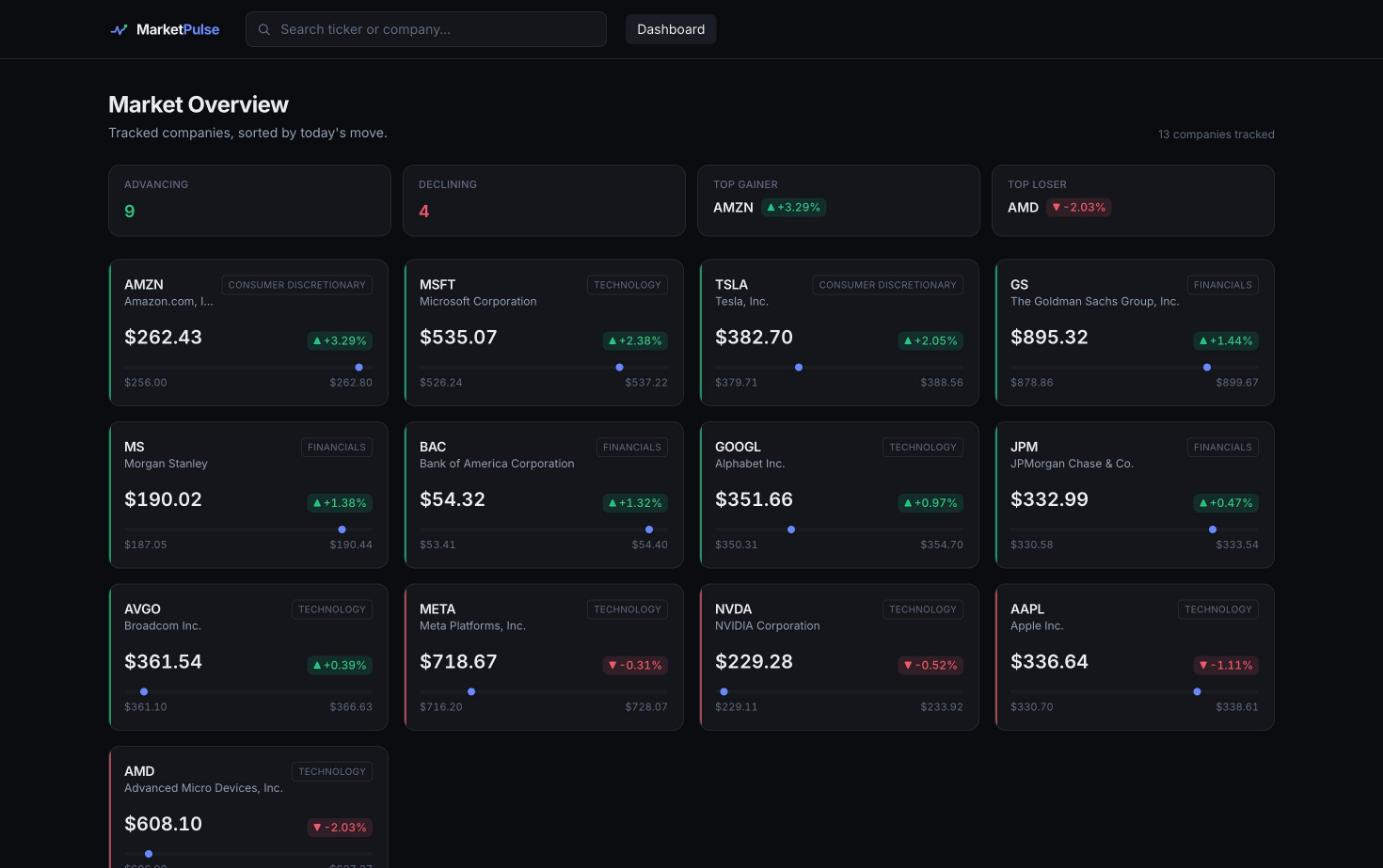
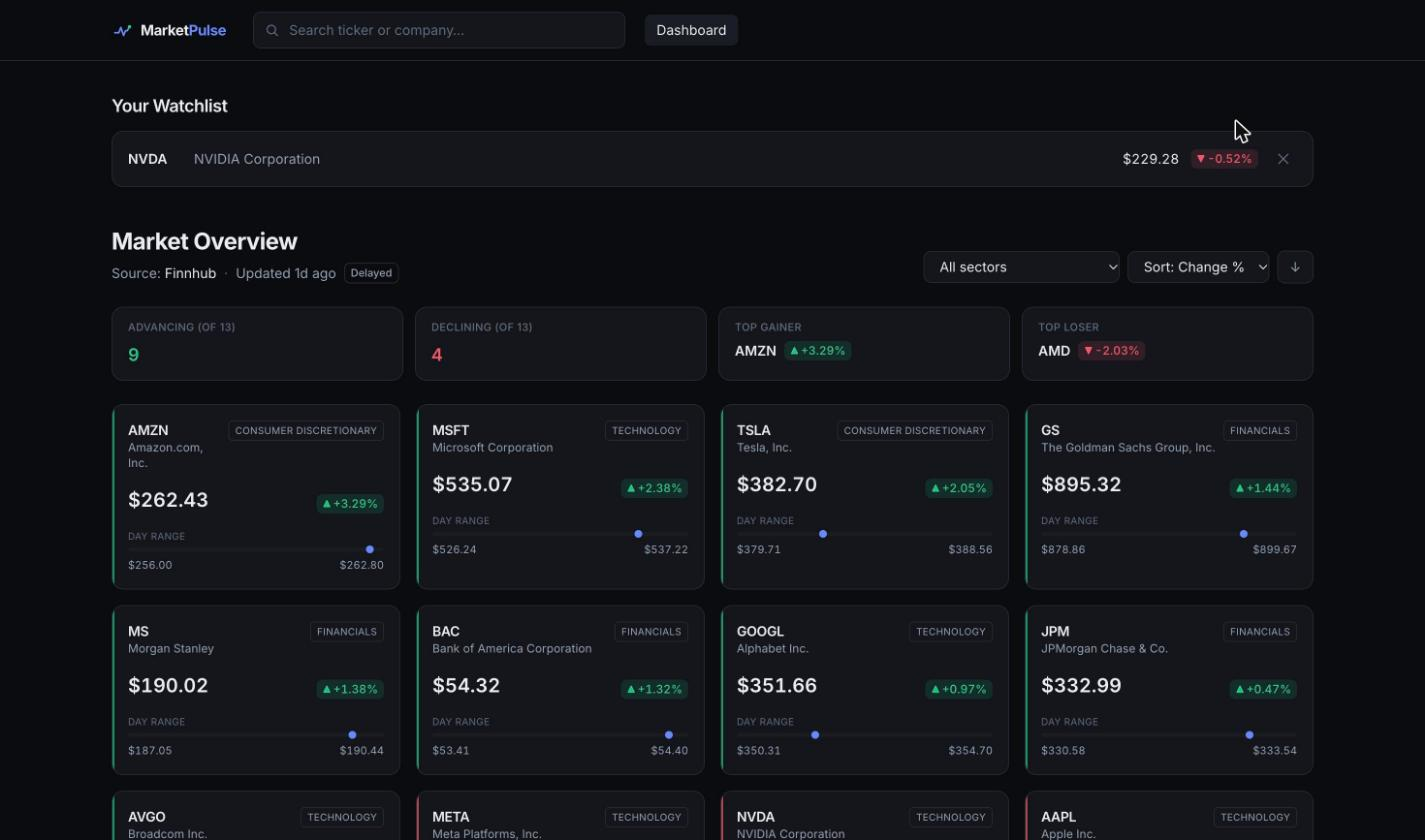
document architecture, data flow, reliability, limits and tradeoffs
Rewrite the README to reflect phases 1-5: data provenance and stale
handling, chart time ranges, the ResilientLoader reliability layer,
per-user watchlists, the full API (incl. watchlist, range param,
X-Data-Stale/X-User-Id headers), CI, real cold-vs-warm performance
numbers, a data-flow walkthrough, and an explicit limitations &
tradeoffs section. Add a CI badge and refresh the dashboard screenshot.

diff --git a/README.md b/README.md
@@ -1,9 +1,12 @@
 # MarketPulse
 
-A full-stack market research dashboard. Search any tracked company to see a live
-quote, an interactive price chart, key fundamentals, recent news, earnings
-history, and SEC filings — all assembled from external market-data APIs behind a
-clean, cached backend.
+A full-stack market research dashboard. Browse tracked companies on a live
+market overview, open any company for a quote, an interactive price chart with
+selectable time ranges, fundamentals, news, earnings and SEC filings, and keep a
+personal watchlist — all assembled from external market-data APIs behind a
+cached, resilient backend.
+
+![CI](https://github.com/adi395/marketpulse/actions/workflows/ci.yml/badge.svg)
 
 **Stack:** React 19 + TypeScript + Vite · Spring Boot 4 (Java 21) · PostgreSQL ·
 Caffeine caching · Docker Compose
@@ -12,20 +15,22 @@ Caffeine caching · Docker Compose
 
 ## Screenshots
 
-### Market overview dashboard
-Tracked companies sorted by the day's move, with top gainer/loser highlights.
+### Dashboard — watchlist + market overview
+Your watchlist up top; below it, tracked companies sorted by the day's move with
+market-breadth stats. The header shows the data **source** and **last-updated**
+time, with a *Delayed* / *Stale* badge so the freshness of the data is explicit.
 
 ![Dashboard](docs/screenshots/dashboard.jpg)
 
 ### Company page — Overview
-Live quote, an interactive 100-day price chart (Recharts), and grouped
-fundamentals (valuation, profitability, growth).
+Live quote with day/52-week range, an interactive price chart with 1M/3M/6M/1Y/MAX
+ranges, and grouped fundamentals (valuation, profitability, growth).
 
 ![Company overview](docs/screenshots/company-overview.jpg)
 
 ### Company page — News, Earnings, Filings
 Lazily-loaded tabs: a news feed, an EPS actual-vs-estimate table with beat/miss
-coloring, and SEC filings linking out to EDGAR.
+coloring, and SEC filings linking out to EDGAR. Each panel cites its source.
 
 | News | Earnings | Filings |
 | --- | --- | --- |
@@ -35,106 +40,121 @@ coloring, and SEC filings linking out to EDGAR.
 
 ## Features
 
-- **Market overview dashboard** — every tracked company with its live quote,
-  sorted by percent change, with top gainer / top loser highlights.
-- **Company detail pages** with a tabbed layout:
-  - **Overview** — live quote, day range, 52-week range, an interactive price
-    chart, and grouped fundamentals.
-  - **News** — recent company headlines with source and summary.
-  - **Earnings** — quarterly EPS actual vs. estimate with surprise %.
-  - **Filings** — recent SEC filings linking to EDGAR.
-- **Resilient by design** — a rate-limited or failing data source degrades
-  gracefully (e.g. an empty chart) instead of breaking the page.
-- **Server-side caching** tuned per data type to stay within external API
-  free-tier limits.
+- **Market overview dashboard** — every tracked company with its live quote and
+  an intraday day-range indicator, sorted by percent change, with top gainer /
+  top loser and advancing / declining stats scoped to the current filter.
+  Client-side **sorting** (change %, price, ticker, name) and **sector filter**.
+- **Data provenance** — the overview reports its `source` and an `asOf` timestamp
+  (latest quote time). Data is labeled **Delayed** normally and **Stale** when
+  it's served from the last-good cache after a provider failure. Nothing is
+  fabricated — a failed source shows an explicit empty/unavailable state.
+- **Company detail pages** (tabbed): Overview (quote + ranged price chart +
+  fundamentals), News, Earnings, Filings.
+- **Price chart time ranges** — 1M / 3M / 6M / 1Y / MAX, sliced server-side from
+  one cached fetch of the full series.
+- **Persistent per-user watchlists** — add/remove companies; ownership is
+  enforced server-side so users can't see each other's lists.
+- **Reliability layer** — TTL caching, request de-duplication, bounded retry,
+  and last-good stale fallback around every rate-limited provider call.
 
 ## Architecture
 
 ```
-React + TypeScript (Vite)                Spring Boot (Java 21)
-┌───────────────────────┐   HTTP/JSON    ┌──────────────────────────────────────┐
-│  Dashboard             │ ─────────────► │  Controllers  (REST, /api/**)         │
-│  Company page (tabs)   │                │       │                                │
-│  Typed API client      │ ◄───────────── │  Services  (@Cacheable, Caffeine)     │
-└───────────────────────┘                │       │                                │
-                                          │  Providers  (interface per data type) │
-                                          │       ├── Finnhub (quotes, fundamentals,│
-                                          │       │     news, earnings, filings)    │
-                                          │       └── Alpha Vantage (price charts)  │
-                                          │  Repository / JPA  ──►  PostgreSQL      │
-                                          └──────────────────────────────────────┘
+React + TypeScript (Vite)                 Spring Boot (Java 21)
+┌─────────────────────────┐   HTTP/JSON   ┌───────────────────────────────────────────┐
+│  Dashboard (overview,    │ ────────────► │  Controllers  (REST, /api/**)              │
+│    watchlist, filters)   │               │       │                                     │
+│  Company page (tabs,     │               │  Services                                   │
+│    chart ranges, ★)      │ ◄──────────── │   ├─ MarketService / WatchlistService       │
+│  Typed API client        │               │   └─ Quote/Chart via ResilientLoader        │
+│    (+ X-User-Id header)   │               │        (TTL · dedup · retry · stale)        │
+└─────────────────────────┘               │  Providers  (one interface per data domain) │
+                                           │   ├─ Finnhub (quote, fundamentals, news,    │
+                                           │   │    earnings, filings)                   │
+                                           │   └─ Alpha Vantage (price charts)           │
+                                           │  Repositories / JPA ──► PostgreSQL          │
+                                           └───────────────────────────────────────────┘
 ```
 
-Key design choices:
+### Data flow (a dashboard load)
 
-- **Provider abstraction.** Each data domain (quotes, charts, news, earnings,
-  filings, fundamentals) is an interface with a vendor-specific implementation,
-  so a provider can be swapped without touching controllers or services.
-- **Per-cache TTLs.** Caffeine caches are tuned to how often each data source
-  actually changes — 30s for quotes, 6h for daily charts, etc. — which keeps the
-  app under the Finnhub and Alpha Vantage free-tier limits and makes repeat
-  requests near-instant.
-- **Layered backend.** Controller → Service → Provider → (RestClient / JPA),
-  with DTOs at the boundary and a global exception handler mapping domain
-  exceptions to HTTP responses.
-- **Graceful degradation.** The frontend fetches the chart separately from core
-  data so a throttled chart feed never blanks the company page.
+1. The browser calls `GET /api/market/overview`.
+2. `MarketService` asks `QuoteService` for each tracked company's quote.
+3. `QuoteService` goes through a `ResilientLoader`: a cache hit returns
+   immediately; a miss calls the **Finnhub** provider (with one retry), caches
+   the result, and also records it as "last good".
+4. If Finnhub fails and a last-good value exists, the loader returns it flagged
+   `stale`; the overview aggregates that into a `stale` flag the UI shows as a
+   badge. If there's no last-good value, that company is skipped.
+5. The assembled overview (source + `asOf` + sorted companies) is returned; the
+   frontend sorts/filters it client-side.
+
+Charts take a similar path through **Alpha Vantage**, except the loader fetches
+the *full* daily series once (same API-call cost as a short one) and the service
+slices it to the requested range — so switching ranges costs no extra calls.
+
+### Reliability layer
+
+`ResilientLoader<T>` wraps each rate-limited call with four behaviors:
+
+| Concern | How |
+| --- | --- |
+| Freshness | Caffeine `expireAfterWrite` TTL per data type (quotes 30s, charts 6h). |
+| De-duplication | Caffeine `get(key, loader)` runs the loader once per key under concurrent callers. |
+| Bounded retry | Retried N times — **1 (no retry) for Alpha Vantage**, since it's quota-bound and retrying wastes the daily budget. |
+| Stale fallback | On failure, the most recent successful value is returned flagged `stale` instead of erroring. |
 
 ## Tech stack
 
-**Frontend**
-- React 19, TypeScript, Vite 8
-- React Router 7
-- Tailwind CSS 4
-- Recharts (price chart)
-- Vitest 4 + Testing Library
+**Frontend:** React 19, TypeScript, Vite 8, React Router 7, Tailwind CSS 4,
+Recharts, Vitest 4 + Testing Library.
 
-**Backend**
-- Java 21, Spring Boot 4 (Spring Web MVC)
-- Spring Data JPA + PostgreSQL
-- Spring Cache + Caffeine
-- Spring `RestClient` for external APIs
-- Lombok
-- JUnit 5, Mockito, AssertJ, MockMvc, H2 (tests)
+**Backend:** Java 21, Spring Boot 4 (Web MVC), Spring Data JPA + PostgreSQL,
+Spring Cache + Caffeine, Spring `RestClient`, Lombok. Tests: JUnit 5, Mockito,
+AssertJ, MockMvc, H2.
 
 **Data sources:** [Finnhub](https://finnhub.io) · [Alpha Vantage](https://www.alphavantage.co)
-
-**Infrastructure:** Docker, Docker Compose, nginx
+· **Infrastructure:** Docker, Docker Compose, nginx, GitHub Actions.
 
 ## API
 
 All endpoints are under `/api`.
 
-| Method | Path | Description |
+| Method | Path | Notes |
 | --- | --- | --- |
-| GET | `/market/overview` | All tracked companies with quotes, sorted by % change |
+| GET | `/market/overview` | `{ source, asOf, stale, companies[] }`, sorted by % change |
 | GET | `/companies/{ticker}` | Company profile |
-| GET | `/companies/{ticker}/quote` | Latest quote |
-| GET | `/companies/{ticker}/chart` | Historical daily price bars |
-| GET | `/companies/{ticker}/fundamentals` | Valuation / profitability / growth metrics |
+| GET | `/companies/{ticker}/quote` | Latest quote; sends `X-Data-Stale` header |
+| GET | `/companies/{ticker}/chart?range=1M\|3M\|6M\|1Y\|MAX` | Daily bars; `X-Data-Stale` header |
+| GET | `/companies/{ticker}/fundamentals` | Valuation / profitability / growth |
 | GET | `/companies/{ticker}/news` | Recent company news |
 | GET | `/companies/{ticker}/earnings` | Quarterly earnings history |
 | GET | `/companies/{ticker}/filings` | Recent SEC filings |
+| GET | `/watchlist` | The caller's watchlist (requires `X-User-Id`) |
+| POST | `/watchlist/{ticker}` | Add to watchlist |
+| DELETE | `/watchlist/{ticker}` | Remove from watchlist |
+
+Invalid tickers and unsupported chart ranges return **400**; unknown companies
+return **404**.
 
 ## Getting started
 
 ### Prerequisites
-- Free API keys from [Finnhub](https://finnhub.io) and [Alpha Vantage](https://www.alphavantage.co)
+Free API keys from [Finnhub](https://finnhub.io) and [Alpha Vantage](https://www.alphavantage.co).
 
 ### Run with Docker (recommended)
 
 ```bash
-cp .env.example .env     # add your FINNHUB_API_KEY and ALPHAVANTAGE_API_KEY
+cp .env.example .env     # add FINNHUB_API_KEY and ALPHAVANTAGE_API_KEY
 docker compose up --build
 ```
 
-Then open http://localhost:5173. Compose starts Postgres, the backend (port
-8080), and the nginx-served frontend (port 5173, proxying `/api` to the backend).
+Open http://localhost:5173. Compose starts Postgres, the backend (8080), and the
+nginx-served frontend (5173, which reverse-proxies `/api` to the backend).
 
 ### Run locally (without Docker)
 
-Requirements: Java 21, Node 20+, and a local PostgreSQL with a `marketpulse`
-database.
+Requirements: Java 21, Node 20+, and a local PostgreSQL with a `marketpulse` database.
 
 ```bash
 # backend
@@ -142,7 +162,7 @@ cd backend
 export FINNHUB_API_KEY=... ALPHAVANTAGE_API_KEY=...
 ./mvnw spring-boot:run        # http://localhost:8080
 
-# frontend (in a second terminal)
+# frontend (second terminal)
 cd frontend
 npm install
 npm run dev                   # http://localhost:5173
@@ -150,12 +170,49 @@ npm run dev                   # http://localhost:5173
 
 The backend seeds ~13 large-cap companies on first run.
 
-## Testing
+## Testing & CI
 
 ```bash
-# backend — JUnit 5 + Mockito + MockMvc, runs against in-memory H2
-cd backend && ./mvnw test
-
-# frontend — Vitest + Testing Library
-cd frontend && npm test
+cd backend && ./mvnw test     # JUnit 5 + Mockito + MockMvc, on in-memory H2
+cd frontend && npm test       # Vitest + Testing Library
 ```
+
+GitHub Actions ([`.github/workflows/ci.yml`](.github/workflows/ci.yml)) runs both
+suites on every push and PR. The backend tests use H2, so **no database or API
+keys are needed in CI**. Coverage includes percent-change edge cases
+(zero denominator, missing values), the reliability layer (fresh / stale / retry),
+cross-user watchlist isolation, and a hermetic end-to-end test of the primary
+journey (overview → company → quote → add/list/remove watchlist) with the
+provider mocked.
+
+## Performance
+
+Caching's effect on the market-overview endpoint (same endpoint, data and
+process; cold = cache empty, warm = cache hit):
+
+| | Latency | Upstream calls |
+| --- | --- | --- |
+| Cold | ~1.09 s | 13 (one Finnhub quote per company) |
+| Warm | ~6 ms | 0 |
+
+≈180× faster on repeat, and the warm path makes zero external calls — which is
+what keeps the app within the providers' free-tier limits.
+
+## Limitations & tradeoffs
+
+- **Delayed, not real-time.** Quotes come from a free tier and are cached up to
+  30s, so prices are delayed; the UI labels them *Delayed* rather than implying
+  live trading data. This is a research tool, not a trading tool.
+- **Alpha Vantage free tier is 25 calls/day.** Charts are cached 6h and never
+  retried to conserve this budget; when it's exhausted the chart shows
+  "temporarily unavailable" instead of erroring or faking data.
+- **Watchlist identity is tenant-scoping, not authentication.** The `X-User-Id`
+  is a client-generated id; ownership is enforced in the query layer, but the id
+  isn't verified. Real auth would replace the header with an authenticated
+  principal — the service/repository boundary is already shaped for it.
+- **In-process cache / single instance.** Caching and the last-good store live in
+  memory, which is simple and dependency-free but doesn't share across instances;
+  a multi-instance deployment would move them to a shared store (e.g. Redis).
+- **Tracked-company list is seeded.** The 13 companies are seeded at startup;
+  arbitrary tickers work on company pages and watchlists but aren't on the
+  overview grid.
